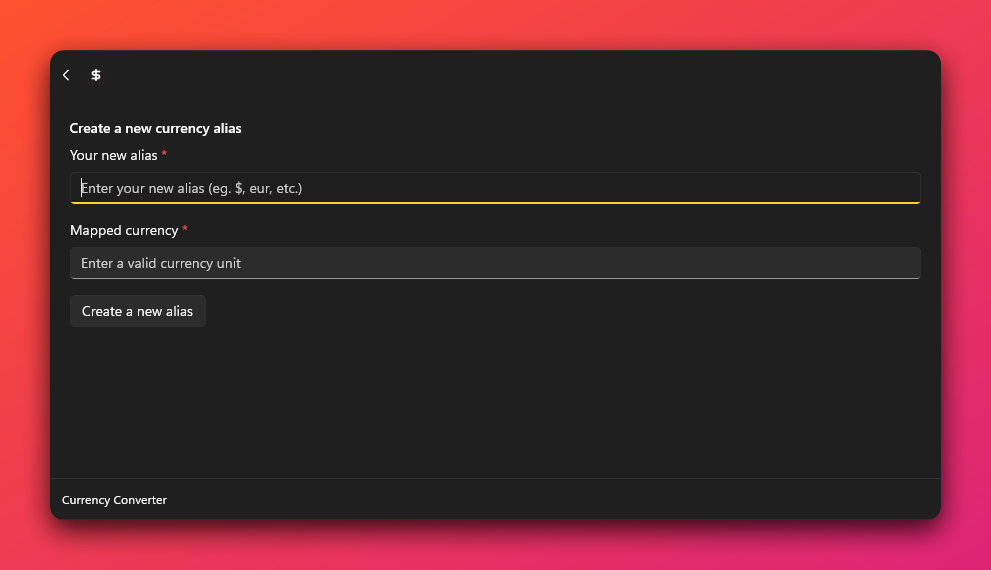
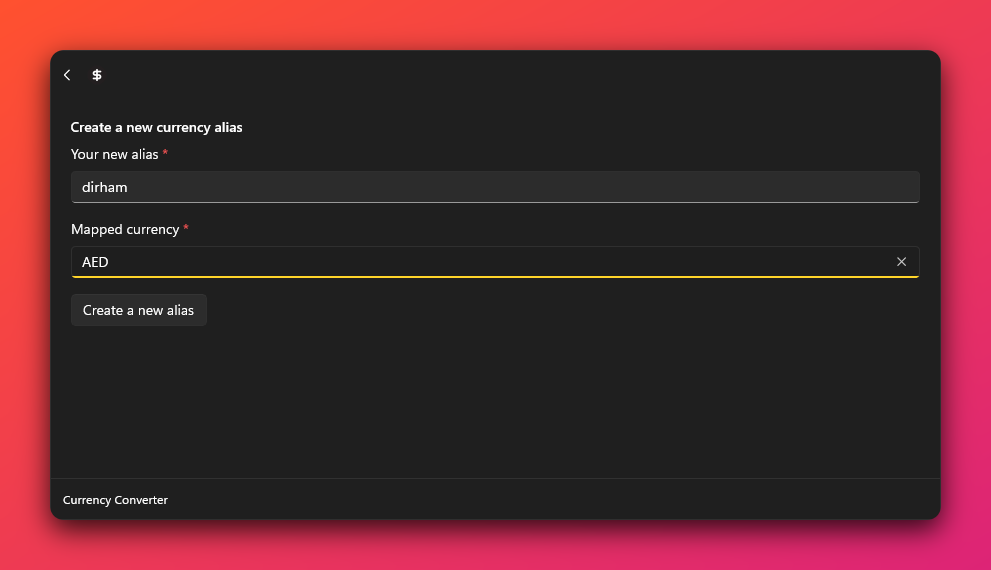
Refresh README screenshots and layout
Retake the conversion, crypto, settings and create-alias screenshots, add
home-list and mixed-currency maths shots, and crop the dock pins image.
Lead the README with the mixed-currency shot, move settings into its own
section, document the reverse quick-conversion rows, and drop em dashes.

diff --git a/README.md b/README.md
@@ -5,22 +5,20 @@
 ![GitHub Downloads (all assets, all releases)](https://img.shields.io/github/downloads/advaith3600/Command-Palette-Currency-Converter/total)
 ![GitHub Release](https://img.shields.io/github/v/release/advaith3600/Command-Palette-Currency-Converter)
 
-Convert fiat and crypto currencies without leaving [Command Palette](https://learn.microsoft.com/windows/powertoys/command-palette/overview). Type natural language, pin the pairs you care about, and keep live rates on the dock — ready the moment you open your launcher.
+Convert fiat and crypto currencies without leaving [Command Palette](https://learn.microsoft.com/windows/powertoys/command-palette/overview). Type natural language, pin the pairs you care about, and keep live rates on the dock, ready the moment you open your launcher.
 
-![Home](screenshots/home.png)
-
-![Settings](screenshots/settings.png)
+![Mixed currency maths](screenshots/conversion-mixed.png)
 
 ## Why you'll love it
 
-- **Natural language** — codes, symbols, and mixed styles all work (`100 inr to usd`, `$100 to €`, `₽100`)
-- **Fiat and crypto** — convert in either direction with the free default API
-- **Math built in** — evaluate expressions with BODMAS/PEMDAS, mix currencies (`200 aed + 20 usd`), then convert
-- **Shorthands in many languages** — `5k`, `1.5m`, `2 crore`, `5万円`, `3 Mio.`
-- **Pins + dock** — save conversions and see live amounts on the Command Palette dock
-- **Details at a glance** — unit rate, inverse rate, and when the rate was last updated
-- **Aliases** — rich built-in currency symbols, plus your own custom aliases
-- **Free by default** — unlimited daily rates with no API key required
+- **Natural language**: codes, symbols, and mixed styles all work (`100 inr to usd`, `$100 to €`, `₽100`)
+- **Fiat and crypto**: convert in either direction with the free default API
+- **Math built in**: evaluate expressions with BODMAS/PEMDAS, mix currencies (`200 aed + 20 usd`), then convert
+- **Shorthands in many languages**: `5k`, `1.5m`, `2 crore`, `5万円`, `3 Mio.`
+- **Pins + dock**: save conversions and see live amounts on the Command Palette dock
+- **Details at a glance**: unit rate, inverse rate, and when the rate was last updated
+- **Aliases**: rich built-in currency symbols, plus your own custom aliases
+- **Free by default**: unlimited daily rates with no API key required
 
 ## Installation
 
@@ -74,9 +72,11 @@ Conversion titles always show both source and target (for example `2 USD → 1.8
 
 On the Command Palette home list, a matching query shows one live conversion (the converted amount, not a loading ellipsis) with the subtitle **Currency Converter**:
 
-- `300` or `10*30` — local currency → first Quick Conversion currency
-- `300 cny` — that currency → local (or first Quick Conversion currency if it is already local)
-- `300 cny to eur` — that pair
+- `300` or `10*30`: local currency → first Quick Conversion currency
+- `300 cny`: that currency → local (or first Quick Conversion currency if it is already local)
+- `300 cny to eur`: that pair
+
+![Home list conversion](screenshots/home-list.png)
 
 If local and first Quick Conversion currency are the same, a number-only query still appears as **Convert "300" with Currency Converter** so you can open the extension. Network or API errors on the home list use that same title by default (**Suppress fallback warnings**); turn the setting off to see the error instead. When a live conversion is shown, **Enter** copies the amount and **Ctrl + Enter** opens Currency Converter.
 
@@ -86,6 +86,7 @@ Convert between fiat and cryptocurrencies in either direction. See the [full lis
 
 ```
 1 btc to usd
+0.5 btc to eur
 1000 usd to btc
 ```
 
@@ -93,9 +94,10 @@ Convert between fiat and cryptocurrencies in either direction. See the [full lis
 
 ### Quick conversions
 
-Type just a number to convert from your local currency into the other currencies configured in Settings. You can change both the local currency and the list of target currencies there.
+Type just a number to convert from your local currency into the other currencies configured in Settings. You can change both the local currency and the list of target currencies there. The same amount is also converted the other way, from each of those currencies back into your local currency.
 
 ```
+3600
 102.2
 $1209
 ```
@@ -118,6 +120,7 @@ Add or subtract amounts in different currencies and get the total in one currenc
 
 ```
 200 aed + 20 usd to eur
+(2k aed + 500 usd) * 2 to eur
 $100 - €20
 2 * 10 usd + 5 eur in inr
 ```
@@ -159,7 +162,7 @@ Pin conversions you check often. They stay at the top of Currency Converter (whe
 
 1. Search a conversion, for example `34 btc to aed`.
 2. Open the context menu (`Ctrl + Enter`) and choose **Pin**.
-3. Open Currency Converter again with an empty search — your pins load at the top with live rates.
+3. Open Currency Converter again with an empty search. Your pins load at the top with live rates.
 
 Pins briefly show **Loading…**, then the live amount (or **Loading failed** if the request fails). **Enter** still copies the converted amount; use the context menu (`Ctrl + Enter`) to **Unpin**.
 
@@ -194,6 +197,8 @@ Remove an alias by selecting it and pressing `Ctrl + Enter`, then confirming the
 
 Open Settings from the Currency Converter command (context menu → Settings).
 
+![Settings](screenshots/settings.png)
+
 | Setting                             | What it does                                               |
 | ----------------------------------- | ---------------------------------------------------------- |
 | **Quick Conversion Local Currency** | Base currency for number-only quick conversions            |
@@ -210,12 +215,12 @@ This extension uses third-party APIs for the latest conversion rates:
 
 1. **Default: [fawazahmed0/exchange-api](https://github.com/fawazahmed0/exchange-api)**
    - Refreshed every day at midnight.
-   - **Free** and **unlimited** — no API key required.
+   - **Free** and **unlimited**, with no API key required.
    - Supports fiat and cryptocurrency conversions.
    - **Important:** Keep the default API unless you have a strong reason to switch. It updates daily and needs no extra setup.
 
 2. **[Frankfurter](https://frankfurter.dev/)**
-   - Free, open-source exchange rates from central banks — no API key required.
+   - Free, open-source exchange rates from central banks, with no API key required.
    - No request quotas (abuse rate limits may still apply).
    - Does **not** support cryptocurrency conversions.
    - Uses the public Frankfurter [v2 rates API](https://frankfurter.dev/).
